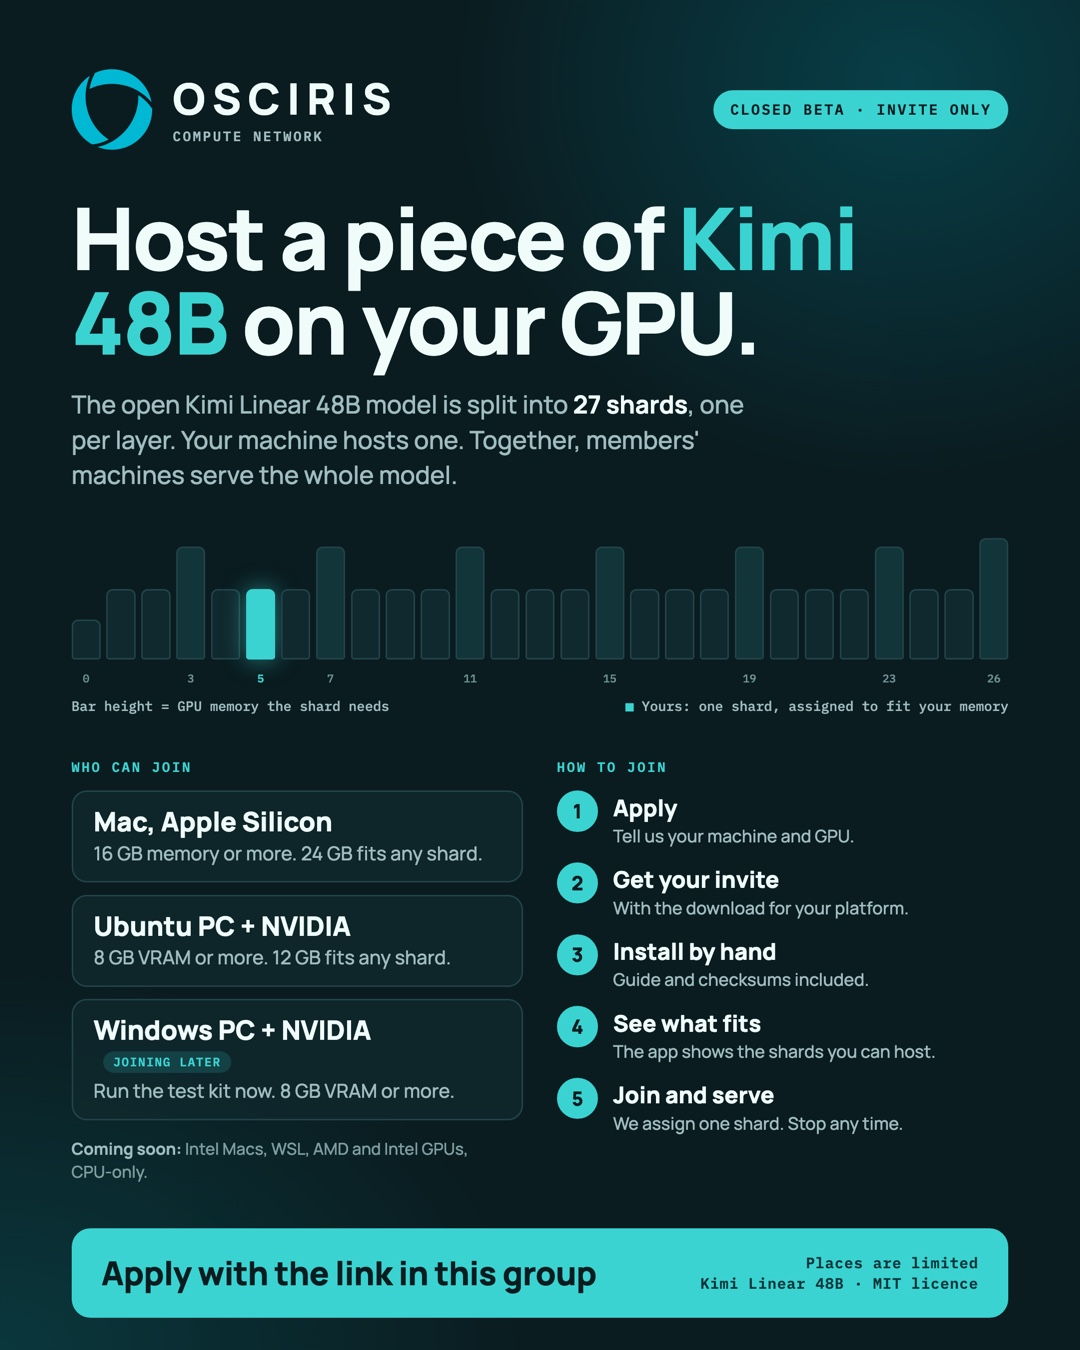
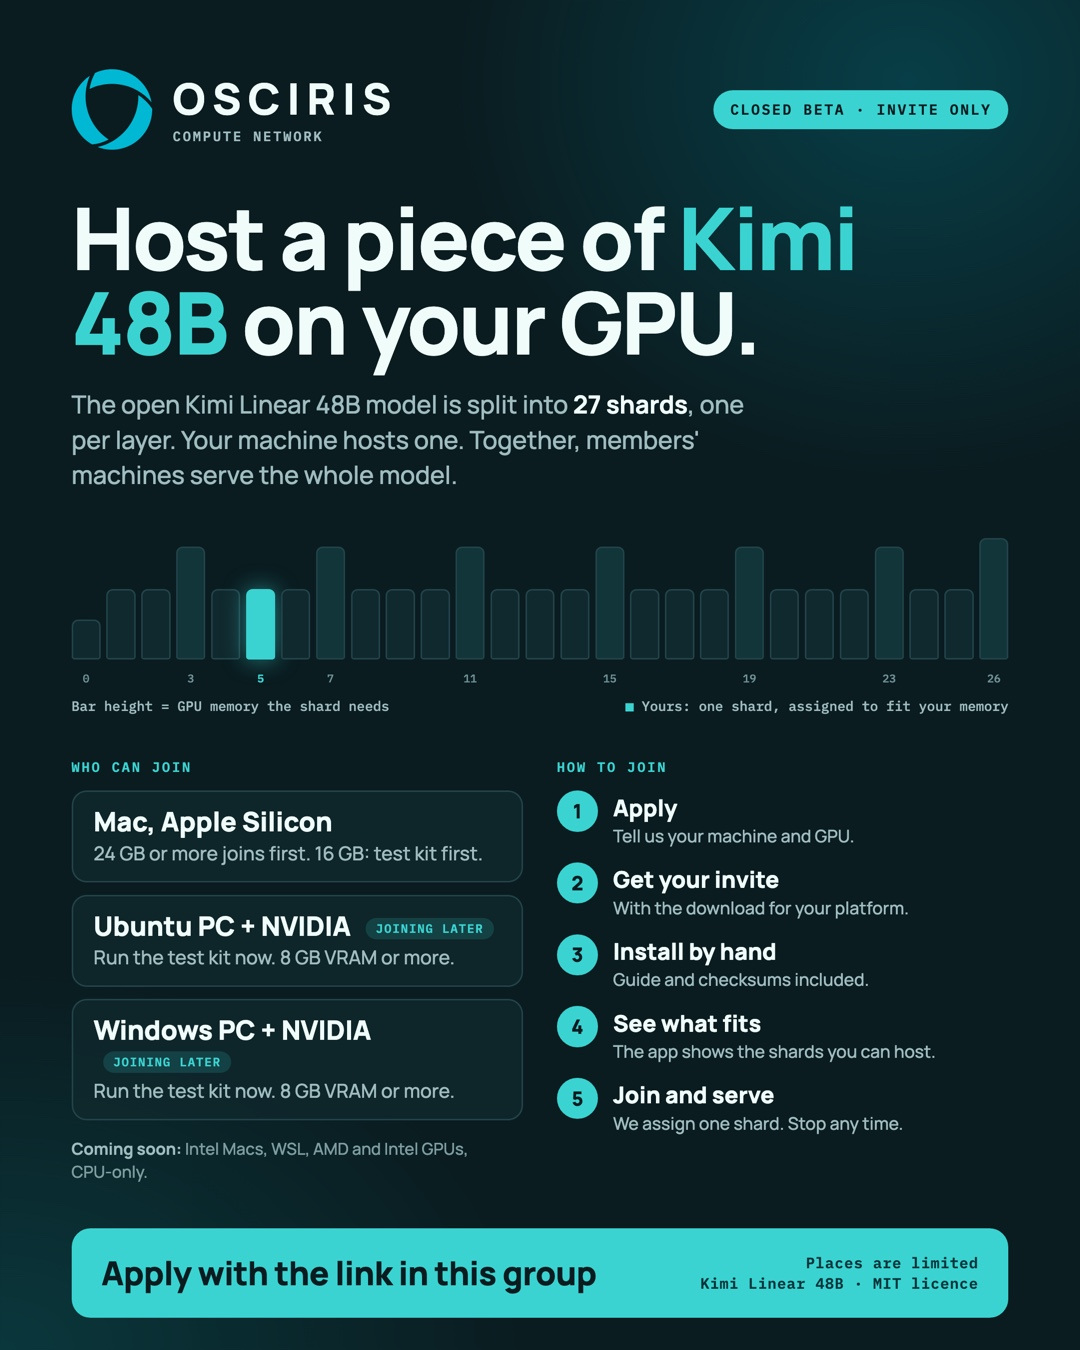
Match who can join to what works today
No beta machine can join a pool until the beta pool host is live, and
then only Apple Silicon Macs (the only runtime pack built so far), so:

- Apple Silicon Macs with 24 GB or more join the first round; 16-23 GB
  Macs run the test kit first (a shard needs 8.27 GB of 8.59 GB usable).
- Ubuntu NVIDIA joins Windows as "test kit now, joining later" until the
  CUDA runtime packs ship.
- Shard counts leave out layer 0, which is not offered yet: 19 and 26 of
  27, not 20 and 27. A card that only fit layer 0 is below the minimum.
- The page names the NVIDIA driver minimums (580 Ubuntu, 576 Windows) and
  lists RTX 50 and GTX 10 or older as not supported yet; the form names
  the supported cards.
- The flier (PNG and JPG) matches.

Changed region(s): [[0.0917, 0.6222, 0.4583, 0.7156], [0.0917, 0.6844, 0.275, 0.7156]]

diff --git a/app/beta/page.tsx b/app/beta/page.tsx
@@ -8,18 +8,18 @@ export const metadata: Metadata = {
     "Host one shard of the open Kimi Linear 48B model on your Mac or NVIDIA PC. Invite-only closed beta: check what your machine can host and apply.",
   openGraph: {
     title: "OSCIRIS closed beta: host a piece of Kimi 48B on your GPU",
-    description: "Invite-only. Apple Silicon Macs with 16 GB or more and Ubuntu PCs with an NVIDIA GPU of 8 GB or more. Windows PCs with an NVIDIA GPU: test kit now, joining later.",
+    description: "Invite-only. Apple Silicon Macs with 24 GB or more join first. Smaller Macs and NVIDIA PCs on Ubuntu or Windows can run the test kit now and join later.",
     images: [{ url: "/beta/osciris-closed-beta-flier.jpg", width: 1080, height: 1350 }],
   },
 };
 
 const machines = [
-  { machine: "Mac, Apple Silicon", memory: "16–23 GB", shards: "20 of 27" },
-  { machine: "Mac, Apple Silicon", memory: "24 GB or more", shards: "All 27" },
-  { machine: "Ubuntu PC, NVIDIA GPU", memory: "8–11 GB VRAM", shards: "20 of 27" },
-  { machine: "Ubuntu PC, NVIDIA GPU", memory: "12 GB VRAM or more", shards: "All 27" },
-  { machine: "Windows PC, NVIDIA GPU (test kit now, joining later)", memory: "8–12 GB VRAM", shards: "20 of 27 once joining opens" },
-  { machine: "Windows PC, NVIDIA GPU (test kit now, joining later)", memory: "More than 12 GB VRAM", shards: "All 27 once joining opens" },
+  { machine: "Mac, Apple Silicon", memory: "24 GB or more", shards: "26 of 27; joins the first round" },
+  { machine: "Mac, Apple Silicon (test kit first)", memory: "16–23 GB", shards: "Up to 19 of 27, if the test kit shows it fits" },
+  { machine: "Ubuntu PC, NVIDIA GPU (test kit now, joining later)", memory: "8–11 GB VRAM", shards: "19 of 27 once joining opens" },
+  { machine: "Ubuntu PC, NVIDIA GPU (test kit now, joining later)", memory: "12 GB VRAM or more", shards: "26 of 27 once joining opens" },
+  { machine: "Windows PC, NVIDIA GPU (test kit now, joining later)", memory: "8–12 GB VRAM", shards: "19 of 27 once joining opens" },
+  { machine: "Windows PC, NVIDIA GPU (test kit now, joining later)", memory: "More than 12 GB VRAM", shards: "26 of 27 once joining opens" },
 ];
 
 const steps = [
@@ -31,7 +31,7 @@ const steps = [
 ];
 
 const questions = [
-  { q: "Do I need a GPU?", a: "Yes, for this beta: an Apple Silicon Mac, or an NVIDIA GPU on Ubuntu. Windows PCs with an NVIDIA GPU can apply and run the test kit now; joining from Windows comes later. CPU-only machines, Intel Macs, WSL and AMD or Intel GPUs are coming soon." },
+  { q: "Do I need a GPU?", a: "Yes, for this beta. Apple Silicon Macs with 24 GB or more join first. Macs with 16–23 GB, and NVIDIA RTX 20, 30 and 40 series GPUs on Ubuntu or Windows, can apply and run the test kit now and join later. CPU-only machines, Intel Macs, WSL, AMD or Intel GPUs and NVIDIA RTX 50 are coming soon." },
   { q: "Which part of the model do I get?", a: "We assign one shard that fits your memory, so the whole model stays covered. You don't pick it." },
   { q: "Why is the install manual?", a: "The beta isn't distributed through an app store. The release lists a checksum for every file so you can verify what you install. On a Mac, the guide shows how to allow the app the first time you open it." },
   { q: "What does it download?", a: "The app, then one shard of 1 to 5 GB, once. Kimi Linear 48B is an open model released under the MIT licence." },
@@ -54,7 +54,7 @@ export default function BetaPage() {
             </div>
           </div>
           <a className="beta-flier" href="/beta/osciris-closed-beta-flier.png" aria-label="Open the closed beta flier at full size">
-            <img src="/beta/osciris-closed-beta-flier.jpg" alt="OSCIRIS closed beta flier: host a piece of Kimi 48B on your GPU. Apple Silicon Macs with 16 GB or more and Ubuntu PCs with an NVIDIA GPU of 8 GB or more can join. Windows PCs with an NVIDIA GPU can run the test kit now and join later." width={1080} height={1350} />
+            <img src="/beta/osciris-closed-beta-flier.jpg" alt="OSCIRIS closed beta flier: host a piece of Kimi 48B on your GPU. Apple Silicon Macs with 24 GB or more join first; 16 GB Macs and NVIDIA PCs on Ubuntu or Windows run the test kit now and join later." width={1080} height={1350} />
           </a>
         </section>
 
@@ -62,7 +62,7 @@ export default function BetaPage() {
           <div>
             <p className="landing-label">WHO CAN JOIN</p>
             <h2 id="who-title">Two kinds of machine, measured shard by shard.</h2>
-            <p>We measured every shard&apos;s memory on Apple Metal, NVIDIA CUDA on Ubuntu and NVIDIA CUDA on Windows at 4,096 tokens of context. A Mac keeps 8 GB of its memory free for macOS, and a Windows PC keeps 1 GB of GPU memory free for the desktop.</p>
+            <p>We measured every shard&apos;s memory on Apple Metal, NVIDIA CUDA on Ubuntu and NVIDIA CUDA on Windows at 4,096 tokens of context. A Mac keeps 8 GB of its memory free for macOS, and a Windows PC keeps 1 GB of GPU memory free for the desktop. Layer 0 is not offered yet, so a machine hosts at most 26 of the 27 shards. NVIDIA needs driver 580 or newer on Ubuntu, or 576 or newer on Windows.</p>
           </div>
           <div className="beta-table-wrap">
             <table className="beta-table">
@@ -71,7 +71,7 @@ export default function BetaPage() {
                 {machines.map((m) => (
                   <tr key={m.machine + m.memory}><td>{m.machine}</td><td className="num">{m.memory}</td><td className="num">{m.shards}</td></tr>
                 ))}
-                <tr className="soon"><td>WSL 2, Linux ARM, Intel Mac, AMD or Intel GPU, CPU only</td><td className="num">—</td><td>Coming soon</td></tr>
+                <tr className="soon"><td>WSL 2, Linux ARM, Intel Mac, AMD or Intel GPU, NVIDIA RTX 50 or GTX 10 and older, CPU only</td><td className="num">—</td><td>Coming soon</td></tr>
               </tbody>
             </table>
           </div>

diff --git a/lib/beta.ts b/lib/beta.ts
@@ -4,6 +4,10 @@
 // table in the OSCIRIS worker (crates/osciris-node/src/kimi_shard_fit.rs).
 
 export const TOTAL_SHARDS = 27;
+/** The first stage (layer 0) is not offered to beta machines yet. */
+export const OFFERED_SHARDS = TOTAL_SHARDS - 1;
+/** Apple Silicon Macs with at least this much memory join the first round; smaller ones run the test kit first. */
+export const MAC_FIRST_ROUND_GIB = 24;
 const GIB = 1024 ** 3;
 /** Unified memory kept for macOS before a shard is compared. */
 export const MAC_HEADROOM_GIB = 8;
@@ -41,38 +45,56 @@ export type Eligibility = {
   status: "eligible" | "below_minimum" | "coming_soon" | "unknown";
   hostableShards: number;
   backend: "metal" | "cuda" | null;
-  /** Windows runs the test kit now; joining the pool from Windows comes later. */
-  joinsLater: boolean;
+  /** When this machine can join the pool: the first round, after its test kit, or later. */
+  joining: Joining;
 };
+
+/**
+ * Apple Silicon Macs with 24 GB or more join the first round. Smaller Macs run
+ * the test kit first, and Ubuntu and Windows NVIDIA PCs run the test kit now
+ * and join once their runtime packs ship.
+ */
+export type Joining = "first_round" | "after_test_kit" | "later";
 
 export function eligibility(platform: Platform | "", memoryGb: number | null): Eligibility {
   if (platform === "mac_apple_silicon" || platform === "ubuntu_nvidia" || platform === "windows") {
     const backend = platform === "mac_apple_silicon" ? "metal" : "cuda";
-    const joinsLater = platform === "windows";
+    const joining: Joining =
+      platform !== "mac_apple_silicon"
+        ? "later"
+        : memoryGb != null && memoryGb >= MAC_FIRST_ROUND_GIB
+          ? "first_round"
+          : "after_test_kit";
     if (memoryGb == null || !Number.isFinite(memoryGb) || memoryGb <= 0) {
-      return { status: "unknown", hostableShards: 0, backend, joinsLater };
+      return { status: "unknown", hostableShards: 0, backend, joining };
     }
     const headroom = platform === "mac_apple_silicon" ? MAC_HEADROOM_GIB : platform === "windows" ? WINDOWS_HEADROOM_GIB : 0;
     const usable = Math.max(0, memoryGb - headroom) * GIB;
     const column = platform === "mac_apple_silicon" ? 1 : platform === "windows" ? 3 : 2;
-    const hostableShards = CLASSES.reduce((sum, entry) => sum + (usable >= entry[column] ? entry[0] : 0), 0);
-    return { status: hostableShards > 0 ? "eligible" : "below_minimum", hostableShards, backend, joinsLater };
+    // The first stage (layer 0) is not offered yet, so it is left out of the count.
+    const hostableShards = CLASSES.slice(1).reduce((sum, entry) => sum + (usable >= entry[column] ? entry[0] : 0), 0);
+    return { status: hostableShards > 0 ? "eligible" : "below_minimum", hostableShards, backend, joining };
   }
-  if (platform === "") return { status: "unknown", hostableShards: 0, backend: null, joinsLater: false };
-  return { status: "coming_soon", hostableShards: 0, backend: null, joinsLater: false };
+  if (platform === "") return { status: "unknown", hostableShards: 0, backend: null, joining: "later" };
+  return { status: "coming_soon", hostableShards: 0, backend: null, joining: "later" };
 }
 
 export function eligibilityText(e: Eligibility): string {
   switch (e.status) {
-    case "eligible":
-      if (e.joinsLater) {
-        return e.hostableShards === TOTAL_SHARDS
-          ? "Your machine can run the test kit now. Joining from Windows comes later; then it can host any of the 27 shards."
-          : `Your machine can run the test kit now. Joining from Windows comes later; then it can host ${e.hostableShards} of the 27 shards.`;
+    case "eligible": {
+      const fit =
+        e.hostableShards === OFFERED_SHARDS
+          ? `every shard offered so far (${OFFERED_SHARDS} of ${TOTAL_SHARDS})`
+          : `${e.hostableShards} of the ${TOTAL_SHARDS} shards`;
+      switch (e.joining) {
+        case "first_round":
+          return `Your Mac can join the first round and host ${fit}.`;
+        case "after_test_kit":
+          return `Your Mac can run the test kit now. If it shows the Mac fits, it can host ${fit}.`;
+        default:
+          return `Your machine can run the test kit now. Joining comes later; then it can host ${fit}. Supported: NVIDIA RTX 20, 30 and 40 series and data-centre GPUs.`;
       }
-      return e.hostableShards === TOTAL_SHARDS
-        ? "Your machine can host any of the 27 shards."
-        : `Your machine can host ${e.hostableShards} of the 27 shards.`;
+    }
     case "below_minimum":
       return "This machine has less memory than the smallest shard needs. You can still apply for later rounds.";
     case "coming_soon":

diff --git a/app/page.tsx b/app/page.tsx
@@ -39,7 +39,7 @@ export default function Home() {
               <ButtonLink href="/beta/">Apply for the GPU beta <span aria-hidden="true">↗</span></ButtonLink>
               <a className="button secondary lp-on-dark" href="#how-it-works">How it works</a>
             </div>
-            <p className="lp-who">Open to Apple Silicon Macs with 16 GB or more and Ubuntu PCs with an NVIDIA GPU of 8 GB or more. Windows PCs with an NVIDIA GPU: test kit now, joining later.</p>
+            <p className="lp-who">Apple Silicon Macs with 24 GB or more join first. Macs with 16 GB, and Ubuntu and Windows PCs with an NVIDIA GPU of 8 GB or more, can run the test kit now and join later.</p>
           </div>
 
           <div className="lp-proof-card" aria-labelledby="proof-card-title">
